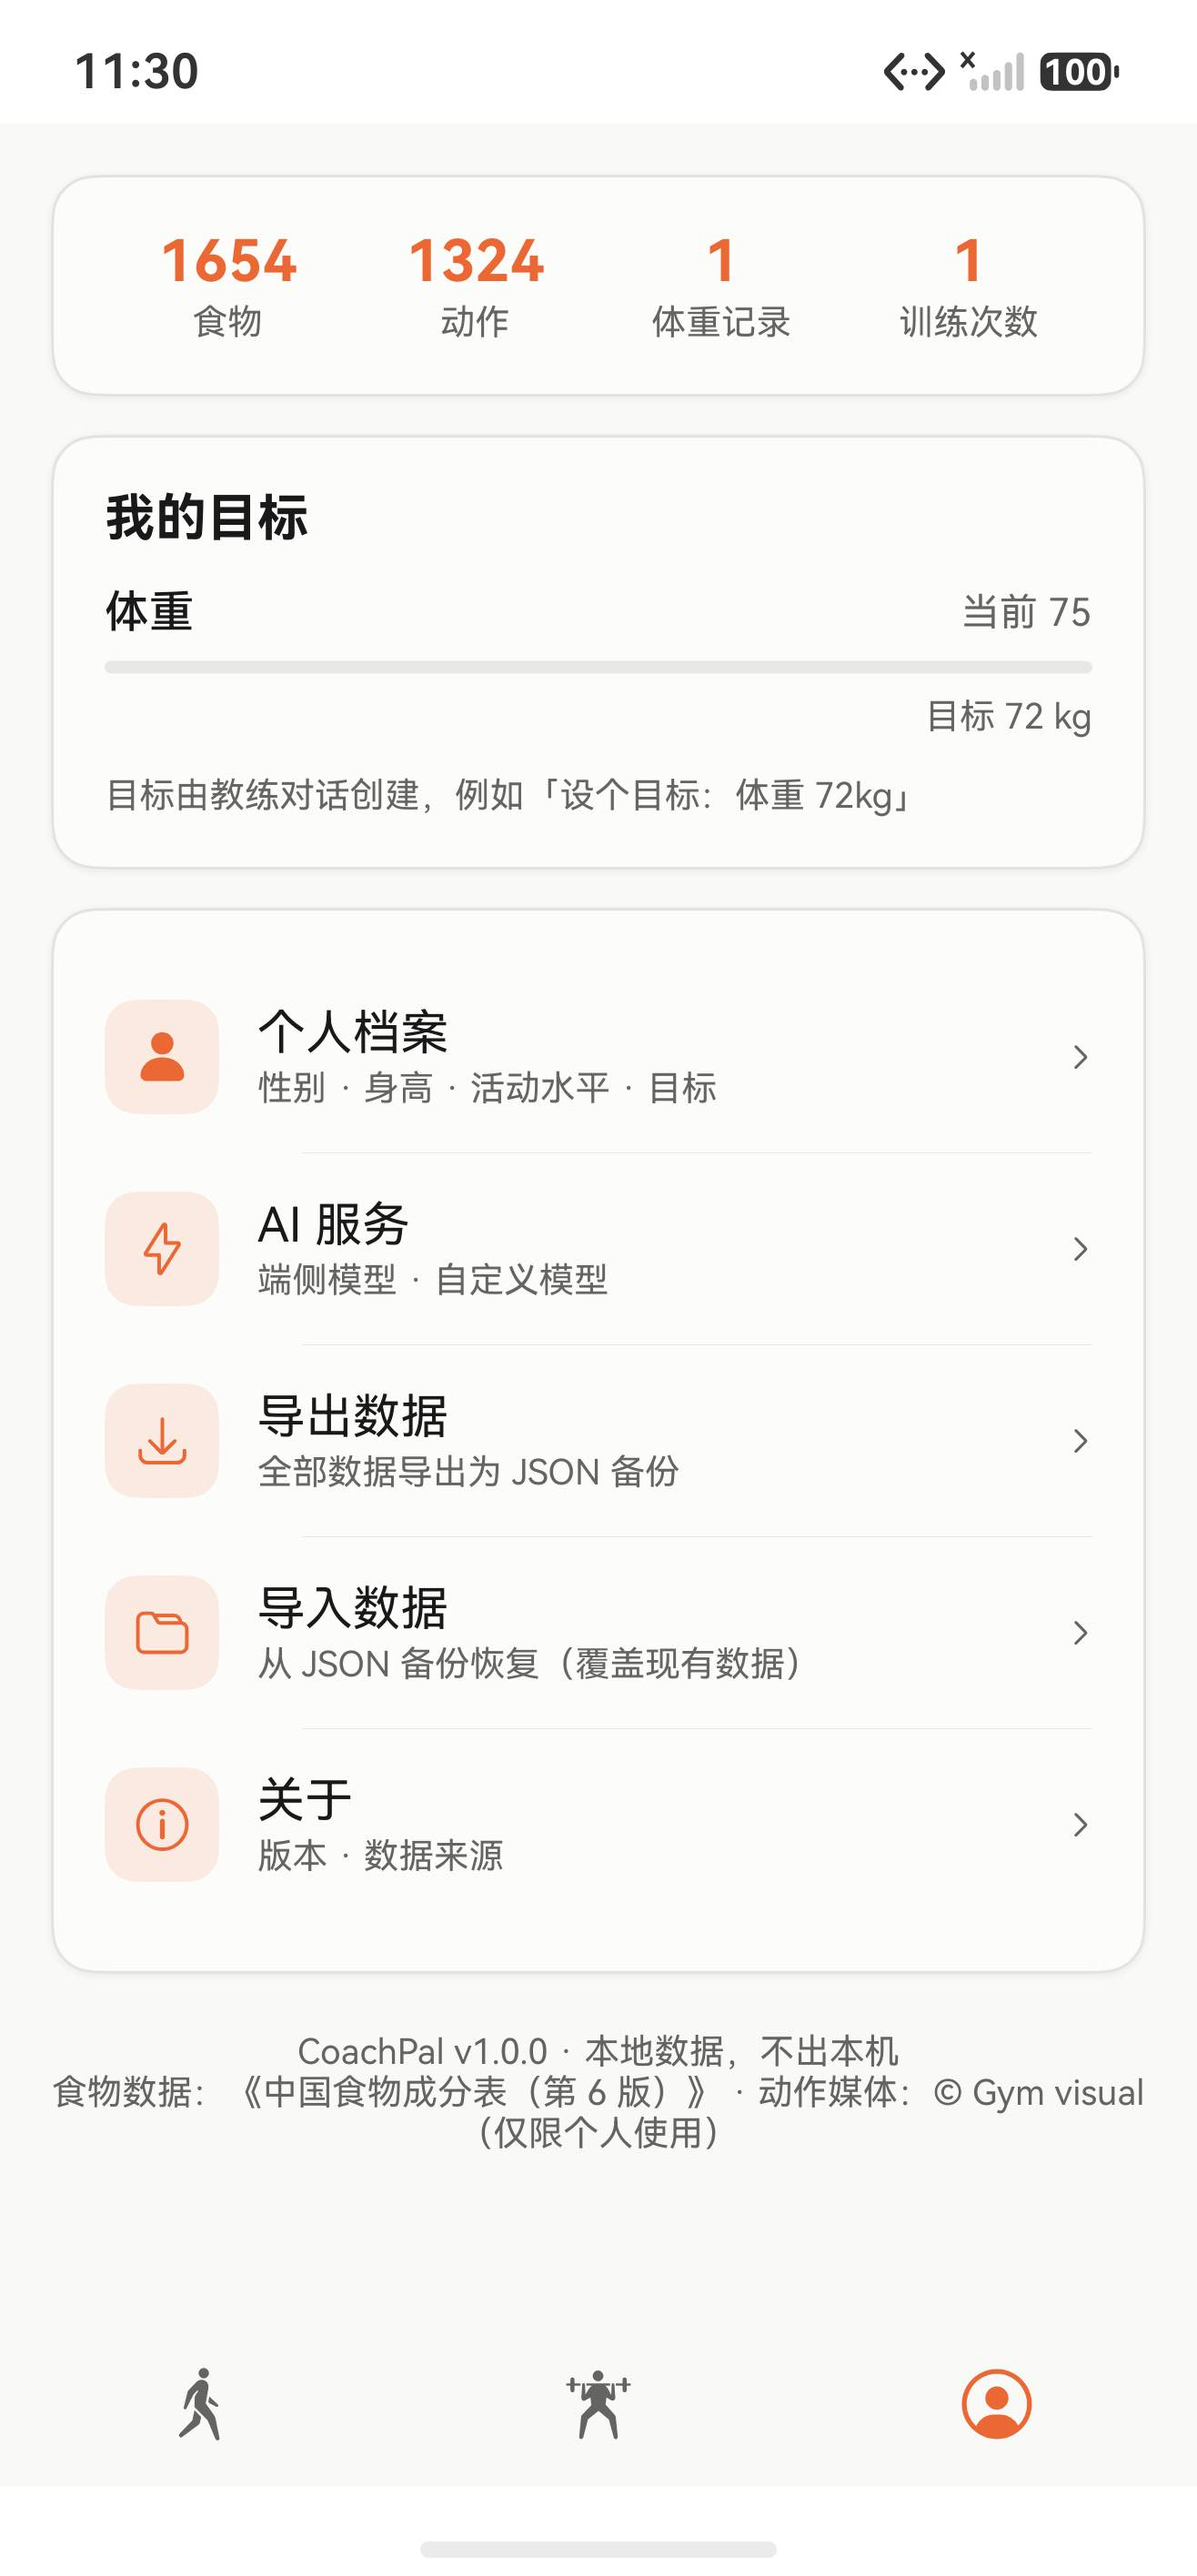
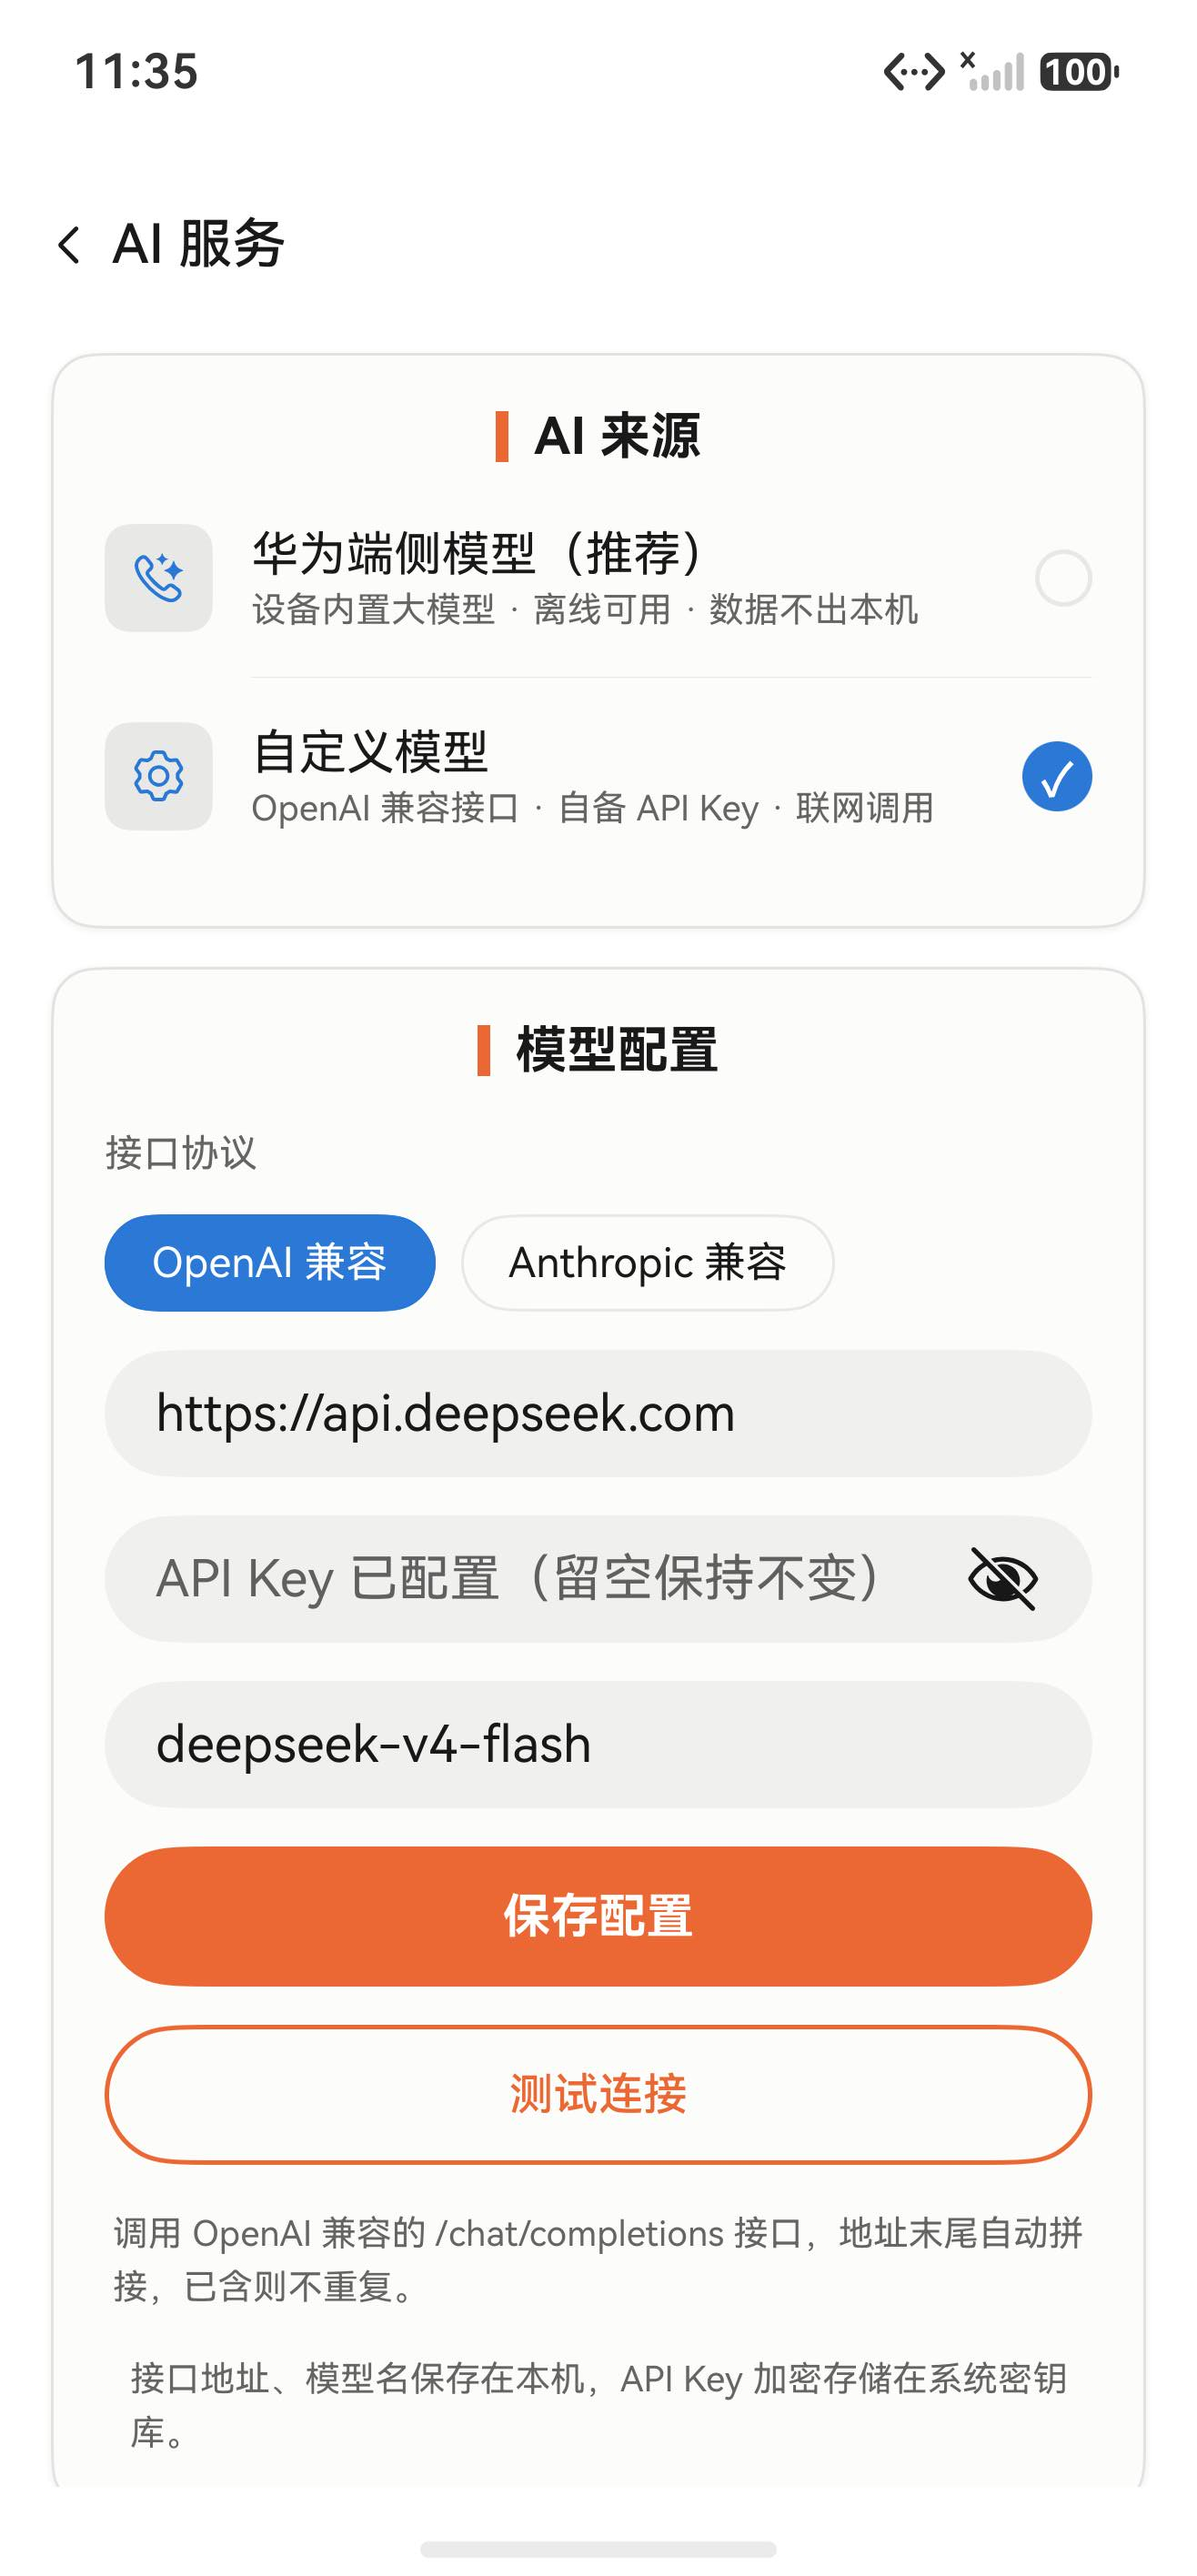
README 界面预览：修复重复截图，新增问答示例图
- ai-config.jpeg 之前误拍成我的页，已重拍 AI 服务页
- 新增 qa.jpeg：教练问答真实回复（增肌方案含表格渲染）
- 预览表重排为 7 图

diff --git a/README.md b/README.md
@@ -11,13 +11,15 @@
 
 ## 界面预览
 
-| 教练对话 | 身体概览 |
+| 教练对话 | 问答示例 |
 | --- | --- |
-| <img src="docs/screenshots/chat.jpeg" width="270"/> | <img src="docs/screenshots/overview.jpeg" width="270"/> |
-| **趋势** | **我的** |
-| <img src="docs/screenshots/trends.jpeg" width="270"/> | <img src="docs/screenshots/profile.jpeg" width="270"/> |
-| **AI 服务** | **个人档案** |
-| <img src="docs/screenshots/ai-config.jpeg" width="270"/> | <img src="docs/screenshots/profile-edit.jpeg" width="270"/> |
+| <img src="docs/screenshots/chat.jpeg" width="270"/> | <img src="docs/screenshots/qa.jpeg" width="270"/> |
+| **身体概览** | **趋势** |
+| <img src="docs/screenshots/overview.jpeg" width="270"/> | <img src="docs/screenshots/trends.jpeg" width="270"/> |
+| **我的** | **AI 服务** |
+| <img src="docs/screenshots/profile.jpeg" width="270"/> | <img src="docs/screenshots/ai-config.jpeg" width="270"/> |
+| **个人档案** | |
+| <img src="docs/screenshots/profile-edit.jpeg" width="270"/> | |
 
 ## 快速开始
 
